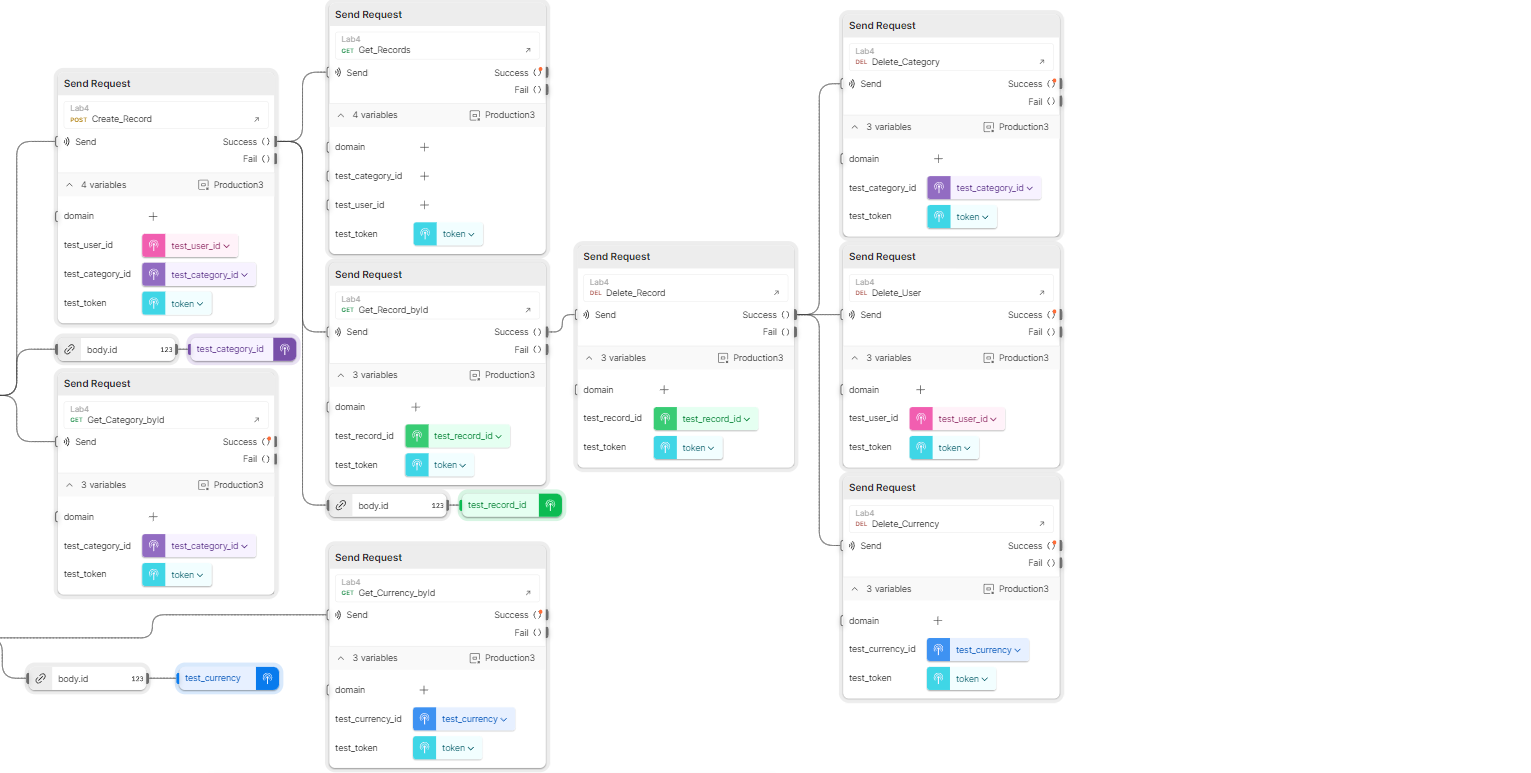
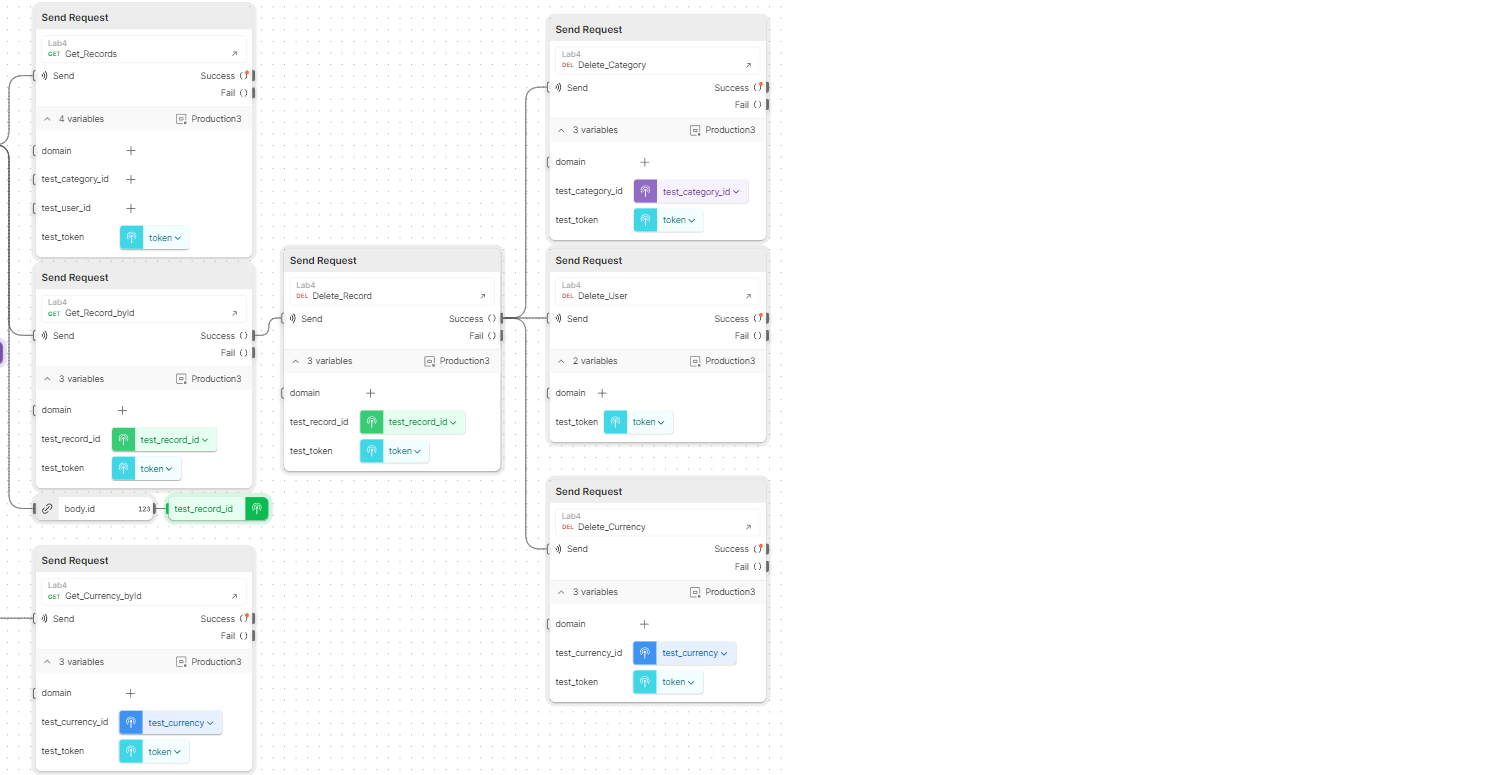
Updating delete user system by adding get_jwt_identity()

diff --git a/src/views.py b/src/views.py
@@ -4,7 +4,7 @@ from datetime import datetime
 from src.schemas import UserSchema, CategorySchema, RecordSchema, CurrencySchema
 from src.models import User, Category, Record, Currency
 from src import db, app
-from flask_jwt_extended import JWTManager, jwt_required, create_access_token
+from flask_jwt_extended import JWTManager, jwt_required, create_access_token, get_jwt_identity, verify_jwt_in_request
 from passlib.hash import pbkdf2_sha256
 
 jwt = JWTManager(app)
@@ -106,18 +106,17 @@ def get_users():
         return jsonify(users_data)
 
 
-@app.delete("/user/<id>")
+@app.delete("/user")
 @jwt_required()
-def delete_user(id):
+def delete_user():
+    current_user_auth = get_jwt_identity()
     with app.app_context():
-        user = User.query.get(id)
-
-        if not user:
-            return jsonify({'error': f'User with that {id} dosnt exist'}), 404
-
-        db.session.delete(user)
+        current_user = User.query.get(current_user_auth)
+        if not current_user:
+            return jsonify({'error': f'User with that authorization token does not exist'}), 404
+        db.session.delete(current_user)
         db.session.commit()
-        return jsonify({'message': f'User {id} deleted'}), 200
+        return jsonify({'message': f'User {current_user_auth} deleted'}), 200
 
 
 # =======================RECORDS===========================
